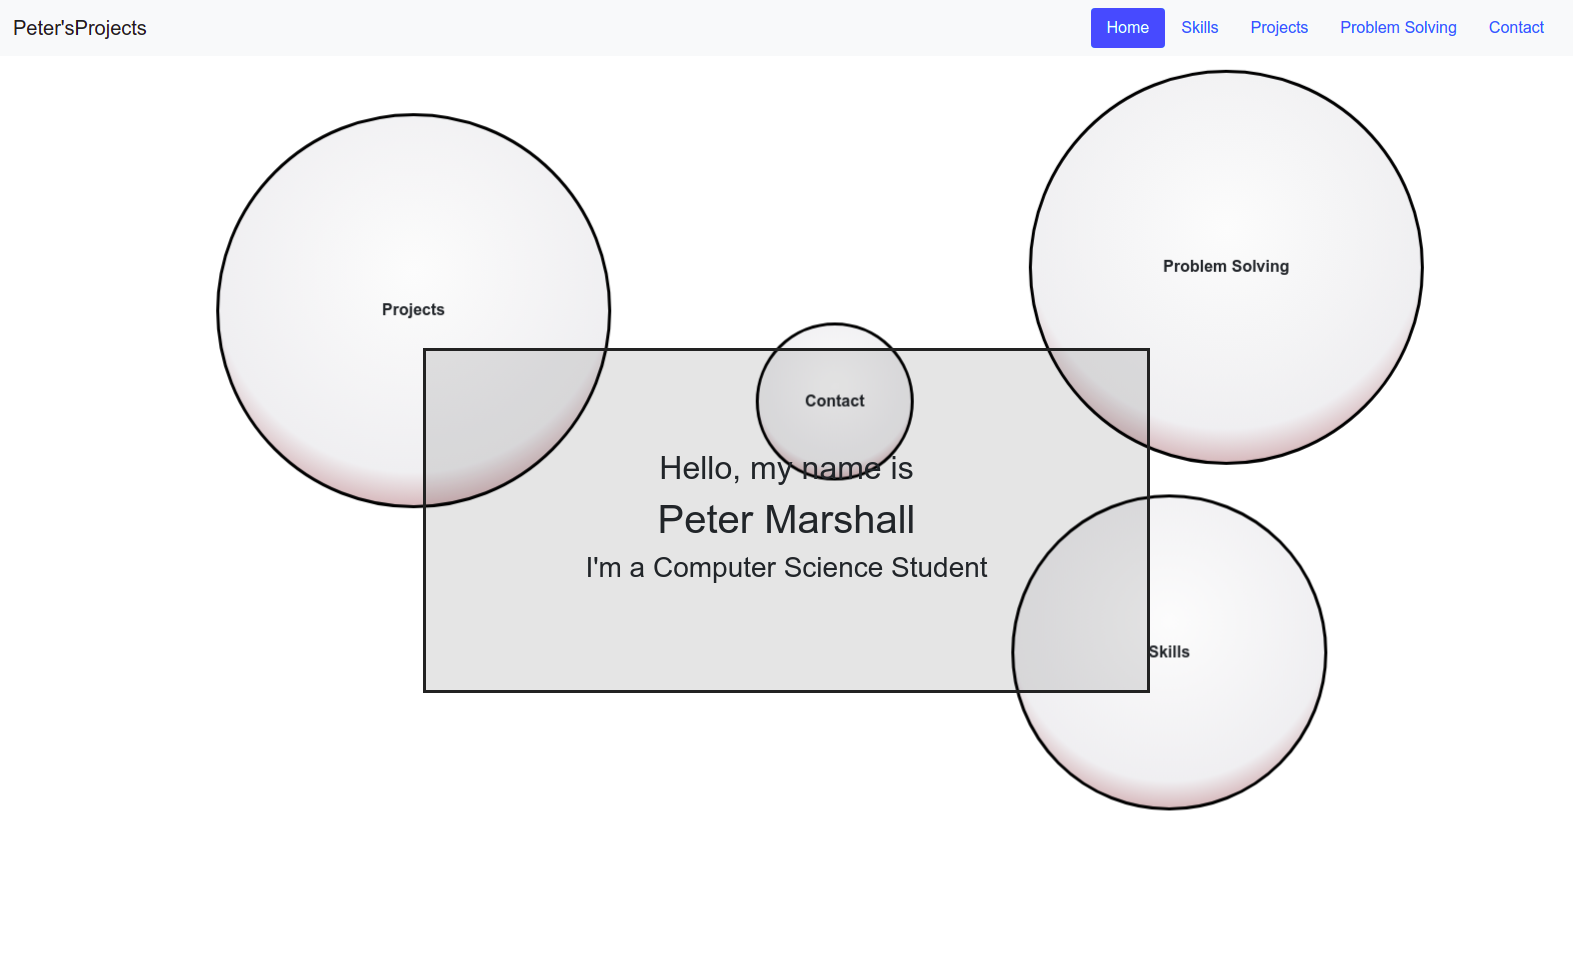
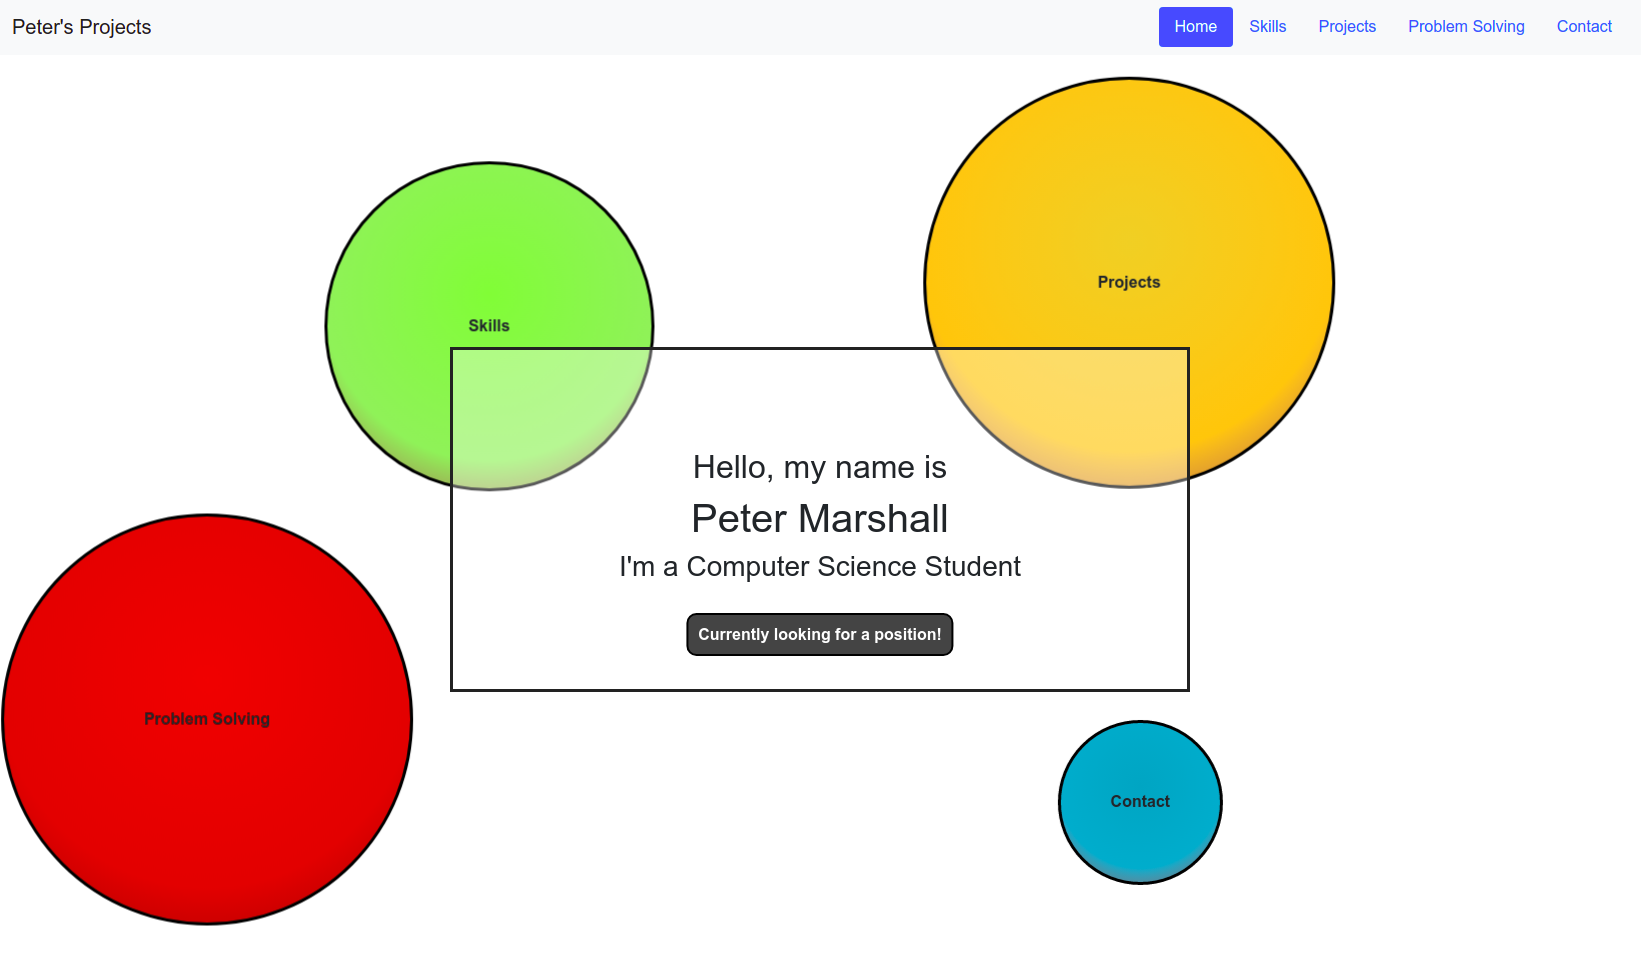
homepage changes and more bug fixes

diff --git a/src/app/projectpage/project.collection.ts b/src/app/projectpage/project.collection.ts
@@ -67,10 +67,11 @@ export const projects: ProjectModel[] = [
     'Website',
     "This website was made to showcase previous projects and problems I've tackled in a presentable and easy to digest way. However, " +
     "I also wanted the website to be a piece to show off" +
-    " on it's own merit, so colliding balls are included on the landing page. The website was designed to be responsive such that it resizes " +
-    "it's content" +
-    " based on the screen size of the device it is being viewed on and also uses Web Workers to run any code that make take some time to complete." +
-    " I uploaded the site to AWS and have registered the site to be crawled by Google.",
+    " on it's own merit, so I included some colliding balls on the landing page that use the proper equations for elastic collisions to calculate " +
+    "trajectories. " +
+    "Usability was improved by making the website responsive " +
+    "and also running any time consuming code in Web Workers so that user events are not blocked." +
+    " Finally, I uploaded the site onto the cloud using AWS (S3, Route53, CloudFront and ACM) and enabled the content to be sent securely through HTTPS.",
     'https://github.com/pmarshall111/PersonalSite',
     // tslint:disable-next-line:max-line-length
     [new ProjectmediaModel('/assets/personal_site/homepage.png',
@@ -78,6 +79,7 @@ export const projects: ProjectModel[] = [
       '', true)],
     "/assets/personal_site/homepage.png",
     "Languages: TypeScript, HTML, CSS\n"+
-    "Frameworks: Angular, Bootstrap",
+    "Frameworks: Angular, Bootstrap\n"+
+    "Cloud: AWS",
     true)
 ];

diff --git a/src/app/homepage/homepage.component.css b/src/app/homepage/homepage.component.css
@@ -12,12 +12,13 @@ h1, h2, h3 {
 }
 
 .info-container {
-  position: absolute;
+  position: relative;
   z-index: 15;
   padding: 10vh 10vw;
   border: 3px solid #222;
   pointer-events: none;
-  background: rgba(0,0,0,0.1);
+  background: rgba(255,255,255,0.35);
+  user-select:none;
 }
 
 .cover {
@@ -42,18 +43,39 @@ h1, h2, h3 {
   cursor: pointer;
 }
 
-#problemsolving_bubble:hover {
+#problemsolving_bubble {
   background: radial-gradient(circle at 50% 40%, #E41A00, #D72500 66%, #9b5050 100%)
 }
 
-#contact_bubble:hover {
+#contact_bubble {
   background: radial-gradient(circle at 50% 40%, #2DA5C1, #31ADCA 66%, #9b5050 100%)
 }
 
-#projects_bubble:hover {
+#projects_bubble {
   background: radial-gradient(circle at 50% 40%, #F2C53F, #FFBE36 66%, #9b5050 100%)
 }
 
-#skills_bubble:hover {
+#skills_bubble {
   background: radial-gradient(circle at 50% 40%, #A2E94A, #a8e063 66%, #9b5050 100%)
+}
+
+.bubble:hover, .info-container h4:hover {
+  box-shadow: 0 4px 8px 0 rgba(0, 0, 0, 0.2), 0 6px 20px 0 rgba(0, 0, 0, 0.19);
+}
+
+.info-container h4 {
+  position: absolute;
+  bottom: 2.5vh;
+  left: 50%;
+  transform: translateX(-50%);
+  white-space:nowrap;
+  font-size: 1rem;
+  color: white;
+  font-weight: bold;
+  border: 2px solid black;
+  padding: 1vh;
+  border-radius: 10px;
+  background: #444;
+  cursor: pointer;
+  pointer-events: all;
 }

diff --git a/src/app/homepage/homepage.component.html b/src/app/homepage/homepage.component.html
@@ -7,12 +7,13 @@
     <h2>Hello, my name is</h2>
     <h1>Peter Marshall</h1>
     <h3>I'm a Computer Science Student</h3>
+    <h4 (click)="scrollToSection('Contact')">Currently looking for a position!</h4>
   </div>
   <div class="bubble"
     *ngFor="let bubble of bubbles"
        [id]="bubble.getId()"
        [ngStyle]="{'transform': 'translate3d(' + bubble.x +'px, ' + bubble.y+'px, 0px)', 'width': bubble.diameter+'px', 'height': bubble.diameter+'px'}"
-      (click)="scrollToSection(bubble)"
+      (click)="scrollToSection(bubble.label)"
   >
    {{bubble.label}}
   </div>

diff --git a/src/app/homepage/homepage.component.ts b/src/app/homepage/homepage.component.ts
@@ -60,8 +60,8 @@ export class HomepageComponent implements OnInit, AfterViewInit {
     this.bubbleCollisionService.startControl();
   }
 
-  scrollToSection(bubble: Bubble) {
-    switch(bubble.label) {
+  scrollToSection(label: string) {
+    switch(label) {
       case "Skills":
         document.querySelector('#skills').scrollIntoView();
         break;

diff --git a/src/app/solvingpage/minesweeper-display/minesweeper-display.component.css b/src/app/solvingpage/minesweeper-display/minesweeper-display.component.css
@@ -76,3 +76,14 @@ p {
   text-align: center;
   vertical-align: center;
 }
+
+@media (max-width: 500px) {
+  #playSpeed {
+    max-width: 100px;
+  }
+}
+
+/*needed for viewing on android - input range element shows with black background*/
+#playSpeed {
+  background: none;
+}

diff --git a/src/app/solvingpage/solvingpage.component.css b/src/app/solvingpage/solvingpage.component.css
@@ -1,8 +1,14 @@
 .links {
   display: grid;
-  grid-template-columns: 1fr 1fr;
+  grid-template-columns: 1fr;
   grid-gap: 20px;
   align-items: center;
+}
+
+@media (min-width: 500px) {
+  .links {
+    grid-template-columns: 1fr 1fr;
+  }
 }
 
 .links > *:first-child {

diff --git a/src/app/skillpage/skillitem/skillitem.component.css b/src/app/skillpage/skillitem/skillitem.component.css
@@ -32,6 +32,19 @@ img {
 h5 {
   padding: 10px;
   text-align: center;
+  word-break: break-word;
+}
+
+@media (max-width: 480px) {
+  h5 {
+    font-size: 1rem;
+  }
+}
+
+@media (max-width: 400px) {
+  h5 {
+    font-size: 0.8rem;
+  }
 }
 
 p {

diff --git a/src/app/contactpage/contactpage.component.css b/src/app/contactpage/contactpage.component.css
@@ -30,3 +30,9 @@ section div:first-child {
   width: 100%;
   height: 100%;
 }
+
+@media (max-width: 800px) {
+  .sent-msg {
+    padding-top: 50px;
+  }
+}

diff --git a/src/app/projectpage/projectpage.component.css b/src/app/projectpage/projectpage.component.css
@@ -17,7 +17,7 @@ img {
 
 .card-container {
   width: 75%;
-  min-width: 400px;
+  min-width: 350px;
   height: 100%;
   padding: 30px;
   display: grid;
